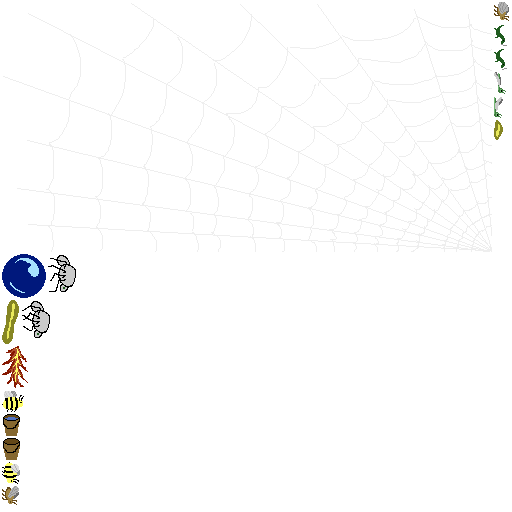
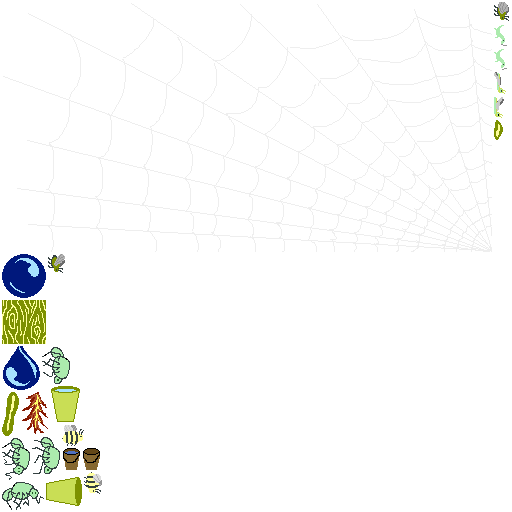
More art and tutorials

Changed region(s): [[0.0, 0.5, 0.2188, 1.0], [0.9375, 0.1562, 1.0, 0.2812], [0.9688, 0.0, 1.0, 0.125]]

diff --git a/assets/spider.json.js b/assets/spider.json.js
@@ -2,5 +2,5 @@ goog.provide('lime.ASSETS.spider.json');
 goog.require('soy');
 
 lime.ASSETS.spider.json.data = function(opt_data) { 
-return JSON.parse("{\"frames\":{\"Spider - Bugs_2.png\":{\"trimmed\":true,\"frame\":{\"y\":462,\"x\":2,\"w\":22,\"h\":18},\"rotated\":true,\"sourceSize\":{\"h\":22,\"w\":22},\"spriteSourceSize\":{\"y\":4,\"x\":0,\"w\":22,\"h\":18}},\"Spider - Bugs_3.png\":{\"trimmed\":true,\"frame\":{\"y\":72,\"x\":494,\"w\":22,\"h\":12},\"rotated\":true,\"sourceSize\":{\"h\":22,\"w\":22},\"spriteSourceSize\":{\"y\":4,\"x\":0,\"w\":22,\"h\":12}},\"Web.png\":{\"trimmed\":true,\"frame\":{\"y\":2,\"x\":2,\"w\":490,\"h\":250},\"rotated\":false,\"sourceSize\":{\"h\":250,\"w\":500},\"spriteSourceSize\":{\"y\":0,\"x\":10,\"w\":490,\"h\":250}},\"Spider - Bugs_1.png\":{\"trimmed\":false,\"frame\":{\"y\":390,\"x\":2,\"w\":22,\"h\":22},\"rotated\":false,\"sourceSize\":{\"h\":22,\"w\":22},\"spriteSourceSize\":{\"y\":0,\"x\":0,\"w\":22,\"h\":22}},\"Spider - Bugs_6.png\":{\"trimmed\":true,\"frame\":{\"y\":2,\"x\":494,\"w\":20,\"h\":16},\"rotated\":true,\"sourceSize\":{\"h\":22,\"w\":22},\"spriteSourceSize\":{\"y\":2,\"x\":0,\"w\":20,\"h\":16}},\"Spider - Bugs_10.png\":{\"trimmed\":true,\"frame\":{\"y\":48,\"x\":494,\"w\":22,\"h\":14},\"rotated\":true,\"sourceSize\":{\"h\":22,\"w\":22},\"spriteSourceSize\":{\"y\":5,\"x\":0,\"w\":22,\"h\":14}},\"Spider - Bugs_4.png\":{\"trimmed\":true,\"frame\":{\"y\":96,\"x\":494,\"w\":22,\"h\":10},\"rotated\":true,\"sourceSize\":{\"h\":22,\"w\":22},\"spriteSourceSize\":{\"y\":2,\"x\":0,\"w\":22,\"h\":10}},\"Spider - Bugs_11.png\":{\"trimmed\":true,\"frame\":{\"y\":24,\"x\":494,\"w\":22,\"h\":14},\"rotated\":true,\"sourceSize\":{\"h\":22,\"w\":22},\"spriteSourceSize\":{\"y\":5,\"x\":0,\"w\":22,\"h\":14}},\"Spider_8.png\":{\"trimmed\":false,\"frame\":{\"y\":254,\"x\":2,\"w\":44,\"h\":44},\"rotated\":false,\"sourceSize\":{\"h\":44,\"w\":44},\"spriteSourceSize\":{\"y\":0,\"x\":0,\"w\":44,\"h\":44}},\"Spider - Bugs_8.png\":{\"trimmed\":true,\"frame\":{\"y\":414,\"x\":2,\"w\":18,\"h\":22},\"rotated\":false,\"sourceSize\":{\"h\":22,\"w\":22},\"spriteSourceSize\":{\"y\":0,\"x\":1,\"w\":18,\"h\":22}},\"Spider - Bugs_5.png\":{\"trimmed\":true,\"frame\":{\"y\":486,\"x\":2,\"w\":20,\"h\":18},\"rotated\":true,\"sourceSize\":{\"h\":22,\"w\":22},\"spriteSourceSize\":{\"y\":0,\"x\":0,\"w\":20,\"h\":18}},\"Spider_1.png\":{\"trimmed\":true,\"frame\":{\"y\":254,\"x\":48,\"w\":38,\"h\":28},\"rotated\":true,\"sourceSize\":{\"h\":44,\"w\":44},\"spriteSourceSize\":{\"y\":16,\"x\":1,\"w\":38,\"h\":28}},\"Spider_2.png\":{\"trimmed\":true,\"frame\":{\"y\":300,\"x\":22,\"w\":38,\"h\":28},\"rotated\":true,\"sourceSize\":{\"h\":44,\"w\":44},\"spriteSourceSize\":{\"y\":16,\"x\":1,\"w\":38,\"h\":28}},\"Spider_6.png\":{\"trimmed\":true,\"frame\":{\"y\":346,\"x\":2,\"w\":42,\"h\":26},\"rotated\":true,\"sourceSize\":{\"h\":44,\"w\":44},\"spriteSourceSize\":{\"y\":10,\"x\":1,\"w\":42,\"h\":26}},\"Spider - Bugs_9.png\":{\"trimmed\":true,\"frame\":{\"y\":120,\"x\":494,\"w\":20,\"h\":10},\"rotated\":true,\"sourceSize\":{\"h\":22,\"w\":22},\"spriteSourceSize\":{\"y\":8,\"x\":1,\"w\":20,\"h\":10}},\"Spider_7.png\":{\"trimmed\":true,\"frame\":{\"y\":300,\"x\":2,\"w\":44,\"h\":18},\"rotated\":true,\"sourceSize\":{\"h\":44,\"w\":44},\"spriteSourceSize\":{\"y\":16,\"x\":0,\"w\":44,\"h\":18}},\"Spider - Bugs_7.png\":{\"trimmed\":true,\"frame\":{\"y\":438,\"x\":2,\"w\":18,\"h\":22},\"rotated\":false,\"sourceSize\":{\"h\":22,\"w\":22},\"spriteSourceSize\":{\"y\":0,\"x\":1,\"w\":18,\"h\":22}}},\"meta\":{\"scale\":\"1\",\"format\":\"RGBA8888\",\"app\":\"http://www.codeandweb.com/texturepacker \",\"version\":\"1.0\",\"smartupdate\":\"$TexturePacker:SmartUpdate:f5b2ad1bab303c16f3feb297efcd944a:cd97f641d3434e93b728eb674d4a0cda:1061686de59298529f6a4fc7550209ec$\",\"image\":\"spider.png\",\"size\":{\"h\":512,\"w\":512}}}");
+return JSON.parse("{\"frames\":{\"Spider - Bugs_3.png\":{\"trimmed\":true,\"frame\":{\"y\":72,\"x\":494,\"w\":22,\"h\":12},\"rotated\":true,\"sourceSize\":{\"h\":22,\"w\":22},\"spriteSourceSize\":{\"y\":4,\"x\":0,\"w\":22,\"h\":12}},\"Web.png\":{\"trimmed\":true,\"frame\":{\"y\":2,\"x\":2,\"w\":490,\"h\":250},\"rotated\":false,\"sourceSize\":{\"h\":250,\"w\":500},\"spriteSourceSize\":{\"y\":0,\"x\":10,\"w\":490,\"h\":250}},\"Spider - Bugs_1.png\":{\"trimmed\":false,\"frame\":{\"y\":424,\"x\":62,\"w\":22,\"h\":22},\"rotated\":false,\"sourceSize\":{\"h\":22,\"w\":22},\"spriteSourceSize\":{\"y\":0,\"x\":0,\"w\":22,\"h\":22}},\"Spider_5.png\":{\"trimmed\":false,\"frame\":{\"y\":300,\"x\":2,\"w\":44,\"h\":44},\"rotated\":false,\"sourceSize\":{\"h\":44,\"w\":44},\"spriteSourceSize\":{\"y\":0,\"x\":0,\"w\":44,\"h\":44}},\"Spider_7.png\":{\"trimmed\":true,\"frame\":{\"y\":392,\"x\":2,\"w\":44,\"h\":18},\"rotated\":true,\"sourceSize\":{\"h\":44,\"w\":44},\"spriteSourceSize\":{\"y\":16,\"x\":0,\"w\":44,\"h\":18}},\"Spider_10.png\":{\"trimmed\":true,\"frame\":{\"y\":386,\"x\":50,\"w\":30,\"h\":36},\"rotated\":false,\"sourceSize\":{\"h\":44,\"w\":44},\"spriteSourceSize\":{\"y\":8,\"x\":6,\"w\":30,\"h\":36}},\"Spider_1.png\":{\"trimmed\":true,\"frame\":{\"y\":436,\"x\":32,\"w\":38,\"h\":28},\"rotated\":true,\"sourceSize\":{\"h\":44,\"w\":44},\"spriteSourceSize\":{\"y\":16,\"x\":1,\"w\":38,\"h\":28}},\"Spider_3.png\":{\"trimmed\":true,\"frame\":{\"y\":482,\"x\":2,\"w\":42,\"h\":28},\"rotated\":false,\"sourceSize\":{\"h\":44,\"w\":44},\"spriteSourceSize\":{\"y\":16,\"x\":2,\"w\":42,\"h\":28}},\"Spider - Bugs_7.png\":{\"trimmed\":true,\"frame\":{\"y\":448,\"x\":82,\"w\":18,\"h\":22},\"rotated\":false,\"sourceSize\":{\"h\":22,\"w\":22},\"spriteSourceSize\":{\"y\":0,\"x\":1,\"w\":18,\"h\":22}},\"Spider - Bugs_10.png\":{\"trimmed\":true,\"frame\":{\"y\":48,\"x\":494,\"w\":22,\"h\":14},\"rotated\":true,\"sourceSize\":{\"h\":22,\"w\":22},\"spriteSourceSize\":{\"y\":5,\"x\":0,\"w\":22,\"h\":14}},\"Spider - Bugs_5.png\":{\"trimmed\":true,\"frame\":{\"y\":254,\"x\":48,\"w\":20,\"h\":18},\"rotated\":true,\"sourceSize\":{\"h\":22,\"w\":22},\"spriteSourceSize\":{\"y\":0,\"x\":0,\"w\":20,\"h\":18}},\"Spider_8.png\":{\"trimmed\":false,\"frame\":{\"y\":254,\"x\":2,\"w\":44,\"h\":44},\"rotated\":false,\"sourceSize\":{\"h\":44,\"w\":44},\"spriteSourceSize\":{\"y\":0,\"x\":0,\"w\":44,\"h\":44}},\"Spider_11.png\":{\"trimmed\":true,\"frame\":{\"y\":346,\"x\":2,\"w\":38,\"h\":44},\"rotated\":false,\"sourceSize\":{\"h\":44,\"w\":44},\"spriteSourceSize\":{\"y\":0,\"x\":3,\"w\":38,\"h\":44}},\"Spider - Bugs_2.png\":{\"trimmed\":true,\"frame\":{\"y\":472,\"x\":84,\"w\":22,\"h\":18},\"rotated\":true,\"sourceSize\":{\"h\":22,\"w\":22},\"spriteSourceSize\":{\"y\":4,\"x\":0,\"w\":22,\"h\":18}},\"Spider_2.png\":{\"trimmed\":true,\"frame\":{\"y\":346,\"x\":42,\"w\":38,\"h\":28},\"rotated\":true,\"sourceSize\":{\"h\":44,\"w\":44},\"spriteSourceSize\":{\"y\":16,\"x\":1,\"w\":38,\"h\":28}},\"Spider - Bugs_6.png\":{\"trimmed\":true,\"frame\":{\"y\":2,\"x\":494,\"w\":20,\"h\":16},\"rotated\":true,\"sourceSize\":{\"h\":22,\"w\":22},\"spriteSourceSize\":{\"y\":2,\"x\":0,\"w\":20,\"h\":16}},\"Spider_4.png\":{\"trimmed\":true,\"frame\":{\"y\":438,\"x\":2,\"w\":42,\"h\":28},\"rotated\":true,\"sourceSize\":{\"h\":44,\"w\":44},\"spriteSourceSize\":{\"y\":16,\"x\":2,\"w\":42,\"h\":28}},\"Spider - Bugs_8.png\":{\"trimmed\":true,\"frame\":{\"y\":448,\"x\":62,\"w\":18,\"h\":22},\"rotated\":false,\"sourceSize\":{\"h\":22,\"w\":22},\"spriteSourceSize\":{\"y\":0,\"x\":1,\"w\":18,\"h\":22}},\"Spider - Bugs_9.png\":{\"trimmed\":true,\"frame\":{\"y\":120,\"x\":494,\"w\":20,\"h\":10},\"rotated\":true,\"sourceSize\":{\"h\":22,\"w\":22},\"spriteSourceSize\":{\"y\":8,\"x\":1,\"w\":20,\"h\":10}},\"Spider - Bugs_4.png\":{\"trimmed\":true,\"frame\":{\"y\":96,\"x\":494,\"w\":22,\"h\":10},\"rotated\":true,\"sourceSize\":{\"h\":22,\"w\":22},\"spriteSourceSize\":{\"y\":3,\"x\":0,\"w\":22,\"h\":10}},\"Spider - Bugs_11.png\":{\"trimmed\":true,\"frame\":{\"y\":24,\"x\":494,\"w\":22,\"h\":14},\"rotated\":true,\"sourceSize\":{\"h\":22,\"w\":22},\"spriteSourceSize\":{\"y\":5,\"x\":0,\"w\":22,\"h\":14}},\"Spider_9.png\":{\"trimmed\":true,\"frame\":{\"y\":476,\"x\":46,\"w\":30,\"h\":36},\"rotated\":true,\"sourceSize\":{\"h\":44,\"w\":44},\"spriteSourceSize\":{\"y\":8,\"x\":6,\"w\":30,\"h\":36}},\"Spider_6.png\":{\"trimmed\":true,\"frame\":{\"y\":392,\"x\":22,\"w\":42,\"h\":26},\"rotated\":true,\"sourceSize\":{\"h\":44,\"w\":44},\"spriteSourceSize\":{\"y\":10,\"x\":1,\"w\":42,\"h\":26}}},\"meta\":{\"scale\":\"1\",\"format\":\"RGBA8888\",\"app\":\"http://www.codeandweb.com/texturepacker \",\"version\":\"1.0\",\"smartupdate\":\"$TexturePacker:SmartUpdate:1b23ea098c120654f8a033a3f67feafc:427bd47ba91d50ebccceff17027a9158:1061686de59298529f6a4fc7550209ec$\",\"image\":\"spider.png\",\"size\":{\"h\":512,\"w\":512}}}");
 }

diff --git a/scene.js b/scene.js
@@ -18,15 +18,44 @@ tagjam13.Scene = function(spider) {
             .setFill('#354242').setPosition(WIDTH/2, HEIGHT/2);
     this.appendChild(background);
 
+    this.web_ = new tagjam13.Web();
+    this.web_.setPosition(this.web_.getOffsets());
+    this.appendChild(this.web_);
+
+    var marginLeft = new lime.Sprite()
+            .setFill(tagjam13.resources.getWoodGrain())
+            .setPosition(tagjam13.Scene.LEFT_MARGIN/2, HEIGHT/2)
+            .setSize(64, HEIGHT);
+    var marginRight = new lime.Sprite()
+            .setFill(tagjam13.resources.getWoodGrain())
+            .setPosition(tagjam13.Scene.RIGHT_MARGIN +
+                         tagjam13.Scene.LEFT_MARGIN/2, HEIGHT/2)
+            .setSize(64, HEIGHT);
+    var ceiling = new lime.Sprite()
+            .setFill(tagjam13.resources.getWoodGrain())
+            .setPosition(WIDTH/2, tagjam13.Scene.TOP_OF_SILL/2)
+            .setSize(WIDTH, tagjam13.Scene.TOP_OF_SILL);
+    var sill = new lime.Sprite()
+            .setFill(tagjam13.resources.getWoodGrain())
+            .setPosition(WIDTH/2, tagjam13.Scene.BOTTOM_OF_SILL+
+                         tagjam13.Scene.TOP_OF_SILL/2)
+            .setSize(WIDTH, tagjam13.Scene.TOP_OF_SILL);
+    var bottom = new lime.Sprite()
+            .setFill(tagjam13.resources.getWoodGrain())
+            .setPosition(WIDTH/2, tagjam13.Scene.BOTTOM_OF_WINDOW+
+                         tagjam13.Scene.TOP_OF_SILL/2)
+            .setSize(WIDTH, tagjam13.Scene.TOP_OF_SILL);
+    this.appendChild(ceiling);
+    this.appendChild(sill);
+    this.appendChild(bottom);
+    this.appendChild(marginLeft);
+    this.appendChild(marginRight);
+
     this.spider_ = spider;
     this.bugs_ = [];
     this.droplets_ = [];
     this.dropPoints_ = [];
     this.paused_ = false;
-
-    this.web_ = new tagjam13.Web();
-    this.web_.setPosition(this.web_.getOffsets());
-    this.appendChild(this.web_);
 
     this.items_ = [];
 
@@ -101,6 +130,7 @@ tagjam13.Scene.prototype.useItem = function() {
             if (!this.isTouching_(item, this.spider_)) {
                 continue;
             }
+            item.equip();
             this.removeChild(item);
             this.spider_.setItem(item);
             goog.array.remove(this.items_, item);

diff --git a/data/tutorial.js b/data/tutorial.js
@@ -22,12 +22,31 @@ tagjam13.data.Tutorial.prototype.intro = function() {
 };
 
 tagjam13.data.Tutorial.prototype.item = function() {
-    return this.getBanner_(1).appendChild(
-        this.getLabel_("Bugs drop supplies, press spacebar\nto pick them up"));
+    return this.getBanner_(3).appendChild(
+        this.getLabel_("Bugs drop supplies, press spacebar\nto pick them up\n"+
+                       "(spacebar to continue)"));
+};
+
+tagjam13.data.Tutorial.prototype.bucket = function() {
+    return this.getBanner_(2).appendChild(
+        this.getLabel_("Place buckets beneath drips to catch raindrops\n"+
+                       "(spacebar to continue)"));
+};
+
+tagjam13.data.Tutorial.prototype.dragon = function() {
+    return this.getBanner_(2).appendChild(
+        this.getLabel_("Use dragons to dry out wet sections of web\n"+
+                       "(spacebar to continue)"));
+};
+
+tagjam13.data.Tutorial.prototype.wax = function() {
+    return this.getBanner_(3).appendChild(
+        this.getLabel_("Climb up the walls to plug holes in \nthe ceiling " +
+                       "with beeswax\n(spacebar to continue)"));
 };
 
 tagjam13.data.Tutorial.prototype.bug = function() {
-    return this.getBanner_(1).appendChild(
+    return this.getBanner_(2).appendChild(
         this.getLabel_("Eat bugs that get trapped in your web\n"+
                        "(spacebar to continue)"));
 };
@@ -35,7 +54,7 @@ tagjam13.data.Tutorial.prototype.bug = function() {
 tagjam13.data.Tutorial.prototype.getLabel_ = function(text) {
     return tagjam13.resources.getLabel().setText(text)
         .setFontSize(tagjam13.data.Tutorial.FONT_SIZE)
-        .setFontColor('#ACEBAE')
+        .setFontColor('#FFFF9D')
         .setPosition(0, tagjam13.data.Tutorial.LINE_HEIGHT)
         .setMultiline(true);
 };

diff --git a/data/resources.js b/data/resources.js
@@ -24,6 +24,17 @@ tagjam13.data.Resources.prototype.getSpiderWalk = function() {
     return spiderWalk;
 };
 
+tagjam13.data.Resources.prototype.getSpiderShrug = function() {
+    var spiderWalk = new lime.animation.KeyframeAnimation()
+        .setDelay(1/4).setLooping(false);
+    spiderWalk.addFrame(this.spriteSheet_.getFrame('Spider_1.png'));
+    spiderWalk.addFrame(this.spriteSheet_.getFrame('Spider_4.png'));
+    spiderWalk.addFrame(this.spriteSheet_.getFrame('Spider_3.png'));
+    spiderWalk.addFrame(this.spriteSheet_.getFrame('Spider_4.png'));
+    spiderWalk.addFrame(this.spriteSheet_.getFrame('Spider_1.png'));
+    return spiderWalk;
+};
+
 tagjam13.data.Resources.prototype.getFly = function() {
     return this.spriteSheet_.getFrame('Spider - Bugs_5.png');
 };
@@ -61,7 +72,7 @@ tagjam13.data.Resources.prototype.getBeeFly = function() {
 };
 
 tagjam13.data.Resources.prototype.getBucket = function() {
-    return this.spriteSheet_.getFrame('Spider - Bugs_7.png');
+    return this.spriteSheet_.getFrame('Spider_9.png');
 };
 
 tagjam13.data.Resources.prototype.getDragon = function() {
@@ -78,4 +89,8 @@ tagjam13.data.Resources.prototype.getDroplet = function() {
 
 tagjam13.data.Resources.prototype.getWeb = function() {
     return this.spriteSheet_.getFrame('Web.png');
+};
+
+tagjam13.data.Resources.prototype.getWoodGrain = function() {
+    return this.spriteSheet_.getFrame('Spider_5.png');
 };

diff --git a/item.js b/item.js
@@ -31,6 +31,17 @@ tagjam13.Bucket = function() {
 
 goog.inherits(tagjam13.Bucket, tagjam13.Item);
 
+tagjam13.Bucket.FIRST_BUCKET = true;
+
+tagjam13.Bucket.prototype.equip = function() {
+    if (!tagjam13.Bucket.FIRST_BUCKET) {
+        return;
+    }
+
+    tagjam13.Bucket.FIRST_BUCKET = false;
+    this.getParent().setTutorial(tagjam13.tutorial.bucket());
+};
+
 tagjam13.Wax = function() {
     goog.base(this);
 
@@ -41,6 +52,17 @@ tagjam13.Wax = function() {
 
 goog.inherits(tagjam13.Wax, tagjam13.Item);
 
+tagjam13.Bucket.FIRST_WAX = true;
+
+tagjam13.Wax.prototype.equip = function() {
+    if (!tagjam13.Bucket.FIRST_WAX) {
+        return;
+    }
+
+    tagjam13.Bucket.FIRST_WAX = false;
+    this.getParent().setTutorial(tagjam13.tutorial.wax());
+};
+
 tagjam13.Dragon = function() {
     goog.base(this);
 
@@ -50,3 +72,14 @@ tagjam13.Dragon = function() {
 };
 
 goog.inherits(tagjam13.Dragon, tagjam13.Item);
+
+tagjam13.Bucket.FIRST_DRAGON = true;
+
+tagjam13.Dragon.prototype.equip = function() {
+    if (!tagjam13.Bucket.FIRST_DRAGON) {
+        return;
+    }
+
+    tagjam13.Bucket.FIRST_DRAGON = false;
+    this.getParent().setTutorial(tagjam13.tutorial.dragon());
+};

diff --git a/spider.js b/spider.js
@@ -17,8 +17,13 @@ goog.inherits(tagjam13.Spider, lime.Sprite);
 
 tagjam13.Spider.prototype.STOP = new goog.math.Vec2(0, 0);
 tagjam13.Spider.prototype.MAX_SPEED = .5;
+tagjam13.Spider.prototype.FIRST_BUG = true;
 
 tagjam13.Spider.prototype.eatBug = function(bug) {
+    if (tagjam13.Spider.prototype.FIRST_BUG) {
+        this.getParent().setTutorial(tagjam13.tutorial.item());
+        tagjam13.Spider.prototype.FIRST_BUG = false;
+    }
     return bug.eaten();
 };
 
@@ -44,7 +49,7 @@ tagjam13.Spider.prototype.dropItem = function() {
 };
 
 tagjam13.Spider.prototype.shrug = function() {
-    // TODO: animation.
+    this.runAction(tagjam13.resources.getSpiderShrug());
 };
 
 tagjam13.Spider.prototype.getNewPosition = function(delta) {

diff --git a/tagjam13.js b/tagjam13.js
@@ -20,8 +20,7 @@ tagjam13.start = function(){
     tagjam13.resources = new tagjam13.data.Resources();
     tagjam13.tutorial = new tagjam13.data.Tutorial();
 
-    var director = new lime.Director(
-        document.getElementById('game'), WIDTH, HEIGHT);
+    var director = new lime.Director(document.body, WIDTH, HEIGHT);
     var spider = new tagjam13.Spider();
     var scene = new tagjam13.Scene(spider);
 

diff --git a/tagjam13.html b/tagjam13.html
@@ -8,11 +8,6 @@
 </head>
 
 <body onload="tagjam13.start()">
- <div id="content">
-  <div id="game" style="width: 1024px; height: 768px; padding-top: 75px;">
-  </div>
- </div>
- <p>Press P to pause</p>
 </body>
 
 </html>
